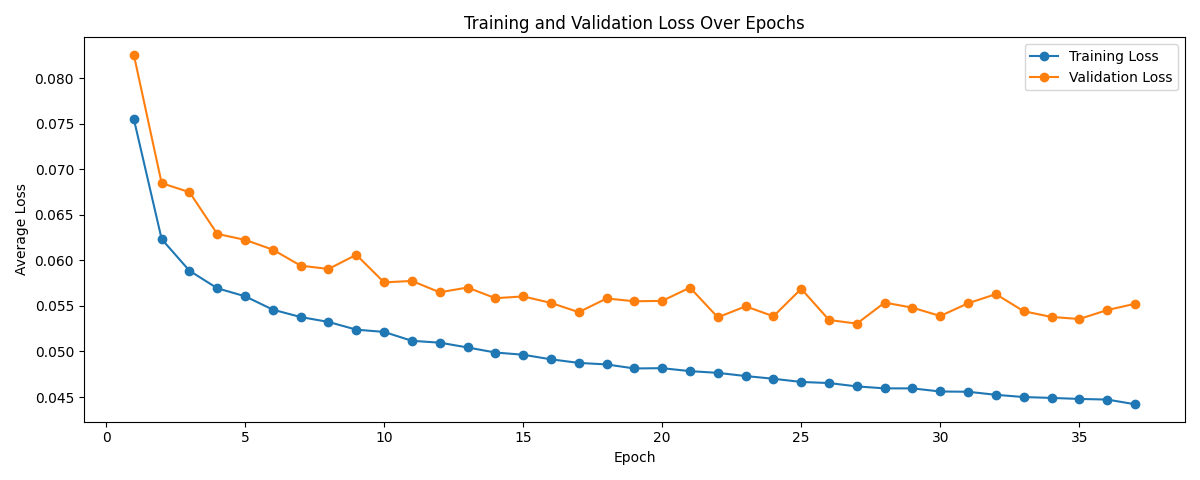
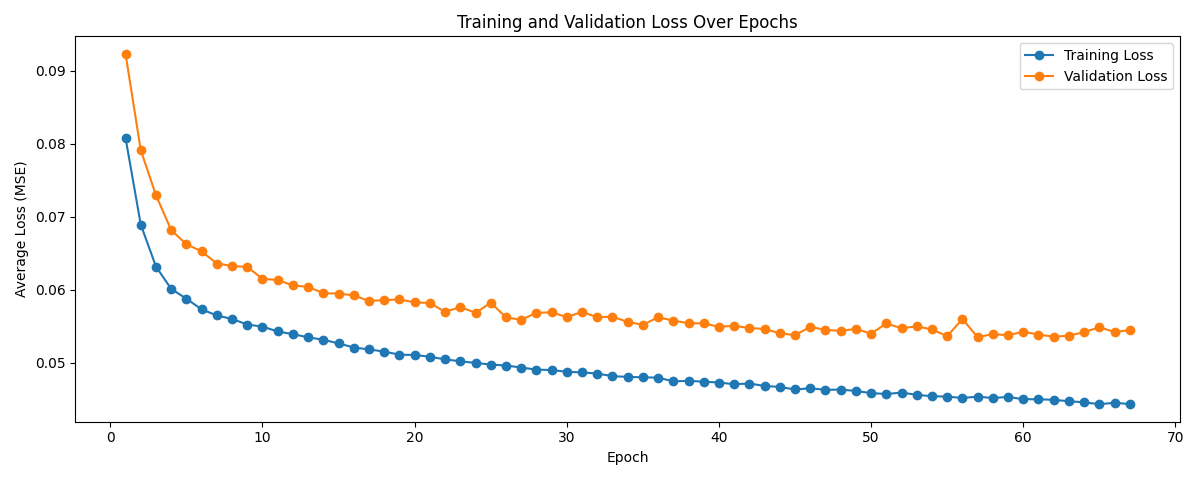
Change learning rate to 0.00005 for emotion
Also updates reuslts accordingly

diff --git a/scripts/emotion_train.py b/scripts/emotion_train.py
@@ -203,8 +203,8 @@ model = MusicEmotionLSTM(input_size, hidden_size, num_layers, output_size).to(de
 
 # Declare criterion for loss
 criterion = nn.MSELoss()
-# Uses Adam optim with leanring rate of 0.000075
-optimizer = Adam(model.parameters(), lr=0.000075)
+# Uses Adam optim with leanring rate of 0.00005
+optimizer = Adam(model.parameters(), lr=0.00005)
 
 # Setup variables for early stopping
 best_val_loss = np.inf
